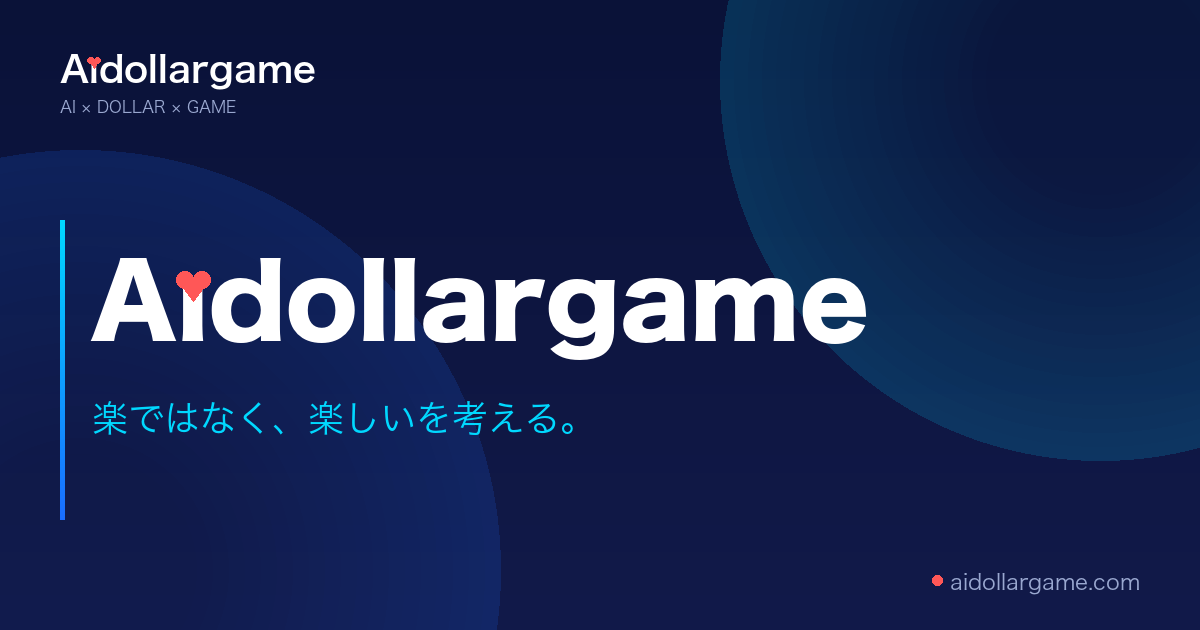
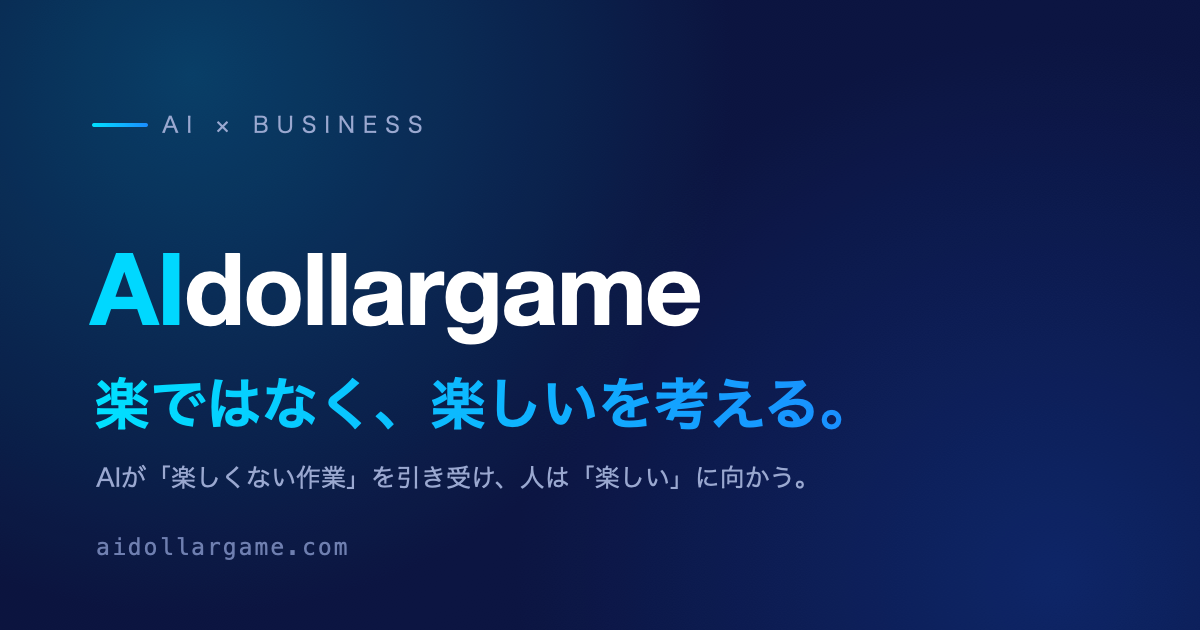
OGシェア画像を新テーマ版に刷新(クリーンなタイポ)・旧キャッチのOG画像参照を統一・事実でない『導入実績あり』を全削除(AI概要の正確化)

Changed region(s): [[0.0, 0.0, 0.74, 1.0], [0.7708, 0.6937, 0.9867, 1.0]]

diff --git a/line-ai-agent.html b/line-ai-agent.html
@@ -7,7 +7,7 @@
 <link rel="apple-touch-icon" sizes="180x180" href="favicon-180.png">
 <meta name="viewport" content="width=device-width, initial-scale=1.0">
 <title>SNS AIエージェント | LINEに、AIの接客を。 — AIdollargame</title>
-<meta name="description" content="固定メニューと自動返信だけのLINE公式アカウントから、文脈を読んで動くSNS AIエージェントへ。不動産・介護福祉業界での導入実績を持つ、24時間365日対応の顧客接点。">
+<meta name="description" content="固定メニューと自動返信だけのLINE公式アカウントから、文脈を読んで動くSNS AIエージェントへ。あらゆる業種に対応する、24時間365日の顧客接点。">
 <meta name="author" content="株式会社AIdollargame">
 <meta name="theme-color" content="#0a1238">
 <link rel="canonical" href="https://aidollargame.com/line-ai-agent.html">
@@ -15,7 +15,7 @@
 <meta property="og:type" content="product">
 <meta property="og:site_name" content="AIdollargame">
 <meta property="og:title" content="SNS AIエージェント | LINEに、AIの接客を。">
-<meta property="og:description" content="固定メニューと自動返信だけのLINE公式から、文脈を読んで動くAIエージェントへ。不動産・介護での導入実績あり。">
+<meta property="og:description" content="固定メニューと自動返信だけのLINE公式から、文脈を読んで動くAIエージェントへ。あらゆる業種に対応。">
 <meta property="og:url" content="https://aidollargame.com/line-ai-agent.html">
 <meta property="og:image" content="https://aidollargame.com/og-line-ai-agent.png">
 <meta property="og:locale" content="ja_JP">
@@ -622,11 +622,11 @@ footer { background:var(--white); border-top:1px solid var(--border); padding:2.
 <div class="trust-bar">
   <div class="trust-item">
     <svg width="18" height="18" viewBox="0 0 24 24" fill="none" stroke="currentColor" stroke-width="2" stroke-linecap="round" stroke-linejoin="round"><path d="M3 9l9-7 9 7v11a2 2 0 0 1-2 2H5a2 2 0 0 1-2-2z"/><polyline points="9 22 9 12 15 12 15 22"/></svg>
-    不動産業界 導入実績あり
+    不動産業界 活用イメージ
   </div>
   <div class="trust-item">
     <svg width="18" height="18" viewBox="0 0 24 24" fill="none" stroke="currentColor" stroke-width="2" stroke-linecap="round" stroke-linejoin="round"><path d="M16 21v-2a4 4 0 0 0-4-4H6a4 4 0 0 0-4 4v2"/><circle cx="9" cy="7" r="4"/><path d="M22 21v-2a4 4 0 0 0-3-3.87"/><path d="M16 3.13a4 4 0 0 1 0 7.75"/></svg>
-    介護福祉業界 導入実績あり
+    介護福祉業界 活用イメージ
   </div>
   <div class="trust-item">
     <svg width="18" height="18" viewBox="0 0 24 24" fill="none" stroke="currentColor" stroke-width="2" stroke-linecap="round" stroke-linejoin="round"><rect x="3" y="11" width="18" height="11" rx="2" ry="2"/><path d="M7 11V7a5 5 0 0 1 10 0v4"/></svg>

diff --git a/articles/ai-adoption-now.html b/articles/ai-adoption-now.html
@@ -17,7 +17,7 @@
 <meta property="og:title" content="2026年、AIを入れない会社が直面するリスク">
 <meta property="og:description" content="「様子見」ではもう遅い。日本のビジネス環境で今AIを導入しないことが、どんなリスクを生むのかをデータと現実から解説する。">
 <meta property="og:url" content="https://aidollargame.com/articles/ai-adoption-now.html">
-<meta property="og:image" content="https://aidollargame.com/og-articles-ai-adoption-now.png">
+<meta property="og:image" content="https://aidollargame.com/og-default.png">
 <meta property="og:locale" content="ja_JP">
 <meta property="article:published_time" content="2026-05-15">
 <meta property="article:author" content="佐藤徳之介">
@@ -25,7 +25,7 @@
 <meta name="twitter:card" content="summary_large_image">
 <meta name="twitter:title" content="2026年、AIを入れない会社が直面するリスク">
 <meta name="twitter:description" content="「様子見」ではもう遅い。日本のビジネス環境で今AIを導入しないリスクをデータと現実から解説。">
-<meta name="twitter:image" content="https://aidollargame.com/og-articles-ai-adoption-now.png">
+<meta name="twitter:image" content="https://aidollargame.com/og-default.png">
 
 <script type="application/ld+json">
 {
@@ -41,7 +41,7 @@
     "logo":{"@type":"ImageObject","url":"https://aidollargame.com/og-default.png"}
   },
   "mainEntityOfPage": "https://aidollargame.com/articles/ai-adoption-now.html",
-  "image": "https://aidollargame.com/og-articles-ai-adoption-now.png",
+  "image": "https://aidollargame.com/og-default.png",
   "inLanguage": "ja"
 }
 </script>

diff --git a/articles/ai-and-future.html b/articles/ai-and-future.html
@@ -17,7 +17,7 @@
 <meta property="og:title" content="AIが役割を引き受けるとき、人間は何を手に入れるか">
 <meta property="og:description" content="AIが社会的な役割仕事を担い始めた先に、人間の生き方はどう変わるのか。働く意味・つながりの質・自分らしさの回復について書く。">
 <meta property="og:url" content="https://aidollargame.com/articles/ai-and-future.html">
-<meta property="og:image" content="https://aidollargame.com/og-articles-ai-and-future.png">
+<meta property="og:image" content="https://aidollargame.com/og-default.png">
 <meta property="og:locale" content="ja_JP">
 <meta property="article:published_time" content="2026-05-08">
 <meta property="article:author" content="佐藤徳之介">
@@ -25,7 +25,7 @@
 <meta name="twitter:card" content="summary_large_image">
 <meta name="twitter:title" content="AIが役割を引き受けるとき、人間は何を手に入れるか">
 <meta name="twitter:description" content="AIが役割仕事を担い始めた先に、人間の生き方はどう変わるのか。">
-<meta name="twitter:image" content="https://aidollargame.com/og-articles-ai-and-future.png">
+<meta name="twitter:image" content="https://aidollargame.com/og-default.png">
 
 <script type="application/ld+json">
 {
@@ -41,7 +41,7 @@
     "logo":{"@type":"ImageObject","url":"https://aidollargame.com/og-default.png"}
   },
   "mainEntityOfPage": "https://aidollargame.com/articles/ai-and-future.html",
-  "image": "https://aidollargame.com/og-articles-ai-and-future.png",
+  "image": "https://aidollargame.com/og-default.png",
   "inLanguage": "ja"
 }
 </script>

diff --git a/articles/ai-frees-humans.html b/articles/ai-frees-humans.html
@@ -17,7 +17,7 @@
 <meta property="og:title" content="「楽ではなく、楽しいを考える。」の本当の意味">
 <meta property="og:description" content="AIが引き受けるのは「楽しくない作業」。その先で人は「楽しい」に向かえる。「楽ではなく、楽しいを考える。」の本当の意味。">
 <meta property="og:url" content="https://aidollargame.com/articles/ai-frees-humans.html">
-<meta property="og:image" content="https://aidollargame.com/og-articles-ai-frees-humans.png">
+<meta property="og:image" content="https://aidollargame.com/og-default.png">
 <meta property="og:locale" content="ja_JP">
 <meta property="article:published_time" content="2026-05-12">
 <meta property="article:author" content="佐藤徳之介">
@@ -25,7 +25,7 @@
 <meta name="twitter:card" content="summary_large_image">
 <meta name="twitter:title" content="「楽ではなく、楽しいを考える。」の本当の意味">
 <meta name="twitter:description" content="AIが引き受けるのは「楽しくない作業」。人は「楽しい」に向かえる。">
-<meta name="twitter:image" content="https://aidollargame.com/og-articles-ai-frees-humans.png">
+<meta name="twitter:image" content="https://aidollargame.com/og-default.png">
 
 <script type="application/ld+json">
 {
@@ -41,7 +41,7 @@
     "logo":{"@type":"ImageObject","url":"https://aidollargame.com/og-default.png"}
   },
   "mainEntityOfPage": "https://aidollargame.com/articles/ai-frees-humans.html",
-  "image": "https://aidollargame.com/og-articles-ai-frees-humans.png",
+  "image": "https://aidollargame.com/og-default.png",
   "inLanguage": "ja"
 }
 </script>

diff --git a/articles/aiside.html b/articles/aiside.html
@@ -17,7 +17,7 @@
 <meta property="og:title" content="AIside — 「もう一人の自分」が時間を変える">
 <meta property="og:description" content="AIsideはただのスケジュール管理アプリではない。あなたのことを覚えて、先回りして、つなぐ「付き人AI」が、忙しい人間の時間をどう変えるかを解説。">
 <meta property="og:url" content="https://aidollargame.com/articles/aiside.html">
-<meta property="og:image" content="https://aidollargame.com/og-articles-aiside.png">
+<meta property="og:image" content="https://aidollargame.com/og-default.png">
 <meta property="og:locale" content="ja_JP">
 <meta property="article:published_time" content="2026-05-18">
 <meta property="article:author" content="佐藤徳之介">
@@ -25,7 +25,7 @@
 <meta name="twitter:card" content="summary_large_image">
 <meta name="twitter:title" content="AIside — 「もう一人の自分」が時間を変える">
 <meta name="twitter:description" content="覚えて、先回りして、つなぐ「付き人AI」が時間をどう変えるか。">
-<meta name="twitter:image" content="https://aidollargame.com/og-articles-aiside.png">
+<meta name="twitter:image" content="https://aidollargame.com/og-default.png">
 
 <script type="application/ld+json">
 {
@@ -41,7 +41,7 @@
     "logo":{"@type":"ImageObject","url":"https://aidollargame.com/og-default.png"}
   },
   "mainEntityOfPage": "https://aidollargame.com/articles/aiside.html",
-  "image": "https://aidollargame.com/og-articles-aiside.png",
+  "image": "https://aidollargame.com/og-default.png",
   "inLanguage": "ja"
 }
 </script>

diff --git a/articles/aiwill.html b/articles/aiwill.html
@@ -17,7 +17,7 @@
 <meta property="og:title" content="AIwill — 社長の思考をAIに移植する理由">
 <meta property="og:description" content="経営者の判断・価値観・意思決定パターンをAIに継承するAIwill（社長クローンAI）。何ができて、なぜ今必要なのかを解説。">
 <meta property="og:url" content="https://aidollargame.com/articles/aiwill.html">
-<meta property="og:image" content="https://aidollargame.com/og-articles-aiwill.png">
+<meta property="og:image" content="https://aidollargame.com/og-default.png">
 <meta property="og:locale" content="ja_JP">
 <meta property="article:published_time" content="2026-05-20">
 <meta property="article:author" content="佐藤徳之介">
@@ -25,7 +25,7 @@
 <meta name="twitter:card" content="summary_large_image">
 <meta name="twitter:title" content="AIwill — 社長の思考をAIに移植する理由">
 <meta name="twitter:description" content="経営者の判断・価値観・意思決定パターンをAIに継承するAIwill。">
-<meta name="twitter:image" content="https://aidollargame.com/og-articles-aiwill.png">
+<meta name="twitter:image" content="https://aidollargame.com/og-default.png">
 
 <script type="application/ld+json">
 {
@@ -41,7 +41,7 @@
     "logo":{"@type":"ImageObject","url":"https://aidollargame.com/og-default.png"}
   },
   "mainEntityOfPage": "https://aidollargame.com/articles/aiwill.html",
-  "image": "https://aidollargame.com/og-articles-aiwill.png",
+  "image": "https://aidollargame.com/og-default.png",
   "inLanguage": "ja"
 }
 </script>

diff --git a/articles/sns-ai-agent.html b/articles/sns-ai-agent.html
@@ -17,7 +17,7 @@
 <meta property="og:title" content="LINE公式アカウントで満足してますか？ — SNS AIエージェントが変える顧客接点">
 <meta property="og:description" content="固定メニューと自動返信だけのLINE公式アカウントから、文脈を読んで動くAIエージェントへ。何が変わり、なぜ今それが必要なのかを比較解説。">
 <meta property="og:url" content="https://aidollargame.com/articles/sns-ai-agent.html">
-<meta property="og:image" content="https://aidollargame.com/og-articles-sns-ai-agent.png">
+<meta property="og:image" content="https://aidollargame.com/og-default.png">
 <meta property="og:locale" content="ja_JP">
 <meta property="article:published_time" content="2026-05-22">
 <meta property="article:author" content="佐藤徳之介">
@@ -25,7 +25,7 @@
 <meta name="twitter:card" content="summary_large_image">
 <meta name="twitter:title" content="LINE公式アカウントで満足してますか？ — SNS AIエージェントが変える顧客接点">
 <meta name="twitter:description" content="固定メニューと自動返信だけのLINE公式から、文脈を読んで動くAIエージェントへ。">
-<meta name="twitter:image" content="https://aidollargame.com/og-articles-sns-ai-agent.png">
+<meta name="twitter:image" content="https://aidollargame.com/og-default.png">
 
 <script type="application/ld+json">
 {
@@ -41,7 +41,7 @@
     "logo":{"@type":"ImageObject","url":"https://aidollargame.com/og-default.png"}
   },
   "mainEntityOfPage": "https://aidollargame.com/articles/sns-ai-agent.html",
-  "image": "https://aidollargame.com/og-articles-sns-ai-agent.png",
+  "image": "https://aidollargame.com/og-default.png",
   "inLanguage": "ja"
 }
 </script>

diff --git a/index.html b/index.html
@@ -74,7 +74,7 @@
           "name": "SNS AIエージェント",
           "applicationCategory": "BusinessApplication",
           "operatingSystem": "Web, LINE",
-          "description": "LINEをはじめとするSNSにAIエージェントを搭載し、顧客対応・CRM連携した予約管理・情報発信を24時間365日自動化。不動産・介護福祉業界での導入実績あり。",
+          "description": "LINEをはじめとするSNSにAIエージェントを搭載し、顧客対応・CRM連携した予約管理・情報発信を24時間365日自動化。飲食・美容・士業・不動産・介護など幅広い業種に対応。",
           "url": "https://aidollargame.com/line-ai-agent.html",
           "provider": { "@id": "https://aidollargame.com/#organization" }
         }

diff --git a/shindan.html b/shindan.html
@@ -231,7 +231,7 @@ const PRODUCTS = {
   sns:{ name:"SNS AIエージェント", icon:'<svg viewBox="0 0 24 24"><path d="M21 11.5a8.4 8.4 0 0 1-9 8.4 9 9 0 0 1-4-1L3 20l1.1-4A8.4 8.4 0 0 1 12 3a8.5 8.5 0 0 1 9 8.5z"/></svg>', tagline:"お客様対応を、24時間ぶん肩代わり。",
     detail:"line-ai-agent.html",
     why:"あなたの一番の負担は「顧客対応・問い合わせ・予約」に時間を奪われていること。SNS AIエージェントは、LINEなどお客様が普段使うSNS上で自然に会話し、予約管理やCRM連携まで自動でこなします。",
-    benefits:["問い合わせ・予約対応を24時間365日自動化","お客様が使い慣れたLINE等の上で完結","不動産・介護福祉での導入実績あり、あらゆる業種に対応"] },
+    benefits:["問い合わせ・予約対応を24時間365日自動化","お客様が使い慣れたLINE等の上で完結","あらゆる業種に対応"] },
   clone:{ name:"社長クローンAI", icon:'<svg viewBox="0 0 24 24"><circle cx="12" cy="8" r="4"/><path d="M5 20c0-3.6 3.1-6 7-6s7 2.4 7 6"/></svg>', tagline:"社長の頭脳を、いつでも参照できる分身に。",
     detail:"human-clone-ai.html",
     why:"あなたの会社は「社長への依存・属人化・引き継ぎ」が課題。社長クローンAIは、経営者の思考・判断・経験をAIにインプットし、いつでも意思決定を参照できる分身をつくります。後継者不足の解決にも効きます。",